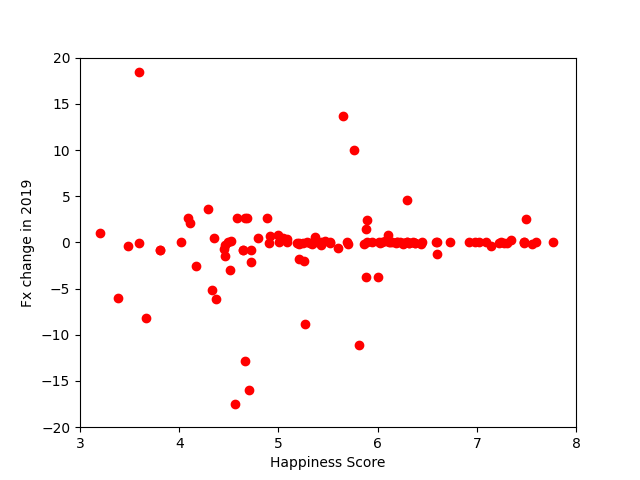
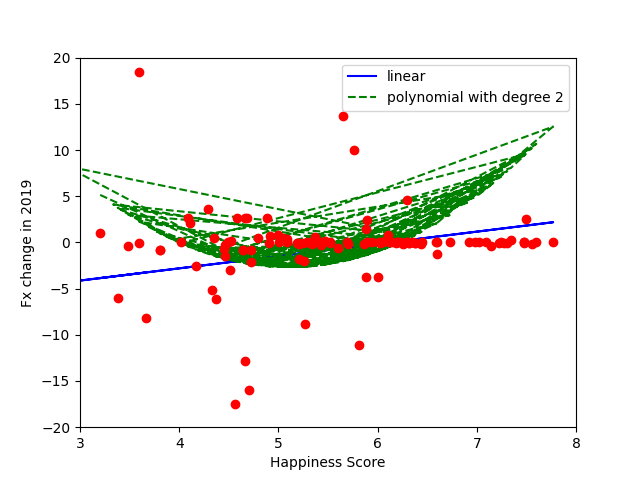
add linear and poly

diff --git a/task_4.py b/task_4.py
@@ -1,10 +1,16 @@
 import os
+from re import L
 import pandas as pd
 import matplotlib.pyplot as plt
 import requests
 import json
+from sklearn.linear_model import LinearRegression
+from sklearn.preprocessing import PolynomialFeatures
+import numpy as np
 from dotenv import load_dotenv
+from scipy.stats import zscore
 load_dotenv()
+
 
 BASE_URL = os.getenv('BASE_URL')
 MY_KEY = os.getenv('MY_KEY')
@@ -47,6 +53,25 @@ def build_fx_change_in_year(start: str, end: str, symbols: list):
 
     return fx_change
 
+def regression_model(data_point, label):
+    label = np.array(label).reshape(-1,1)
+    data_point = np.array(data_point).reshape(len(label),-1)
+        
+    model = LinearRegression()
+    model.fit(data_point, label)
+    return model
+
+def polynomial_preprocess(X):
+    poly = PolynomialFeatures(2)
+    X = np.array(list(X)).reshape(-1,1)
+    X_ = poly.fit_transform(X)
+    return X_
+
+def polynomial_process(X, y):
+    y = np.array(list(y)).reshape(-1,1)
+    X_ = polynomial_preprocess(X)
+    model = regression_model(X_, y)
+    return model
 
 if __name__ == '__main__':
     currency_code = pd.read_csv('data/currency_code.csv')
@@ -57,11 +82,24 @@ if __name__ == '__main__':
     data = preprocess_and_merge_data(fx_change)
     fx_change_year = data['Fx change']
     score = data['Score']
+
+    z_scores = zscore(data[['Fx change', 'Score']])
+    filtered_entries = (np.abs(z_scores) < 1.5).all(axis=1)
+    removed_outlier_data = data[filtered_entries]
+    
+    model_linear = regression_model(removed_outlier_data['Score'], removed_outlier_data['Fx change'])
+    model_polynomial = polynomial_process(removed_outlier_data['Score'], removed_outlier_data['Fx change'])
+
+    plt.plot(score, model_linear.predict(np.array(score).reshape(-1,1)).ravel(), 'b-', label='linear')
+    plt.plot(score, model_polynomial.predict(polynomial_preprocess(score)).ravel(), 'g--', label='polynomial with degree 2')
     plt.plot(score, fx_change_year, 'ro')
     plt.xlabel('Happiness Score')
     plt.ylabel('Fx change in 2019')
     plt.axis([3, 8, -20, 20])
+    plt.legend()
     if not os.path.isdir('imgs/'):
         os.mkdir('imgs/')
     plt.savefig('imgs/task4.png')
     plt.show()
+
+    

diff --git a/program.py b/program.py
@@ -225,7 +225,7 @@ if __name__ == '__main__':
     # TODO: task 3a -> utils.get_currency_code
     # Task 3a
     # data_3a = get_currency_code()
-    # print(data)
+    # print(data_3a)
 
     # Task 3b
     # data_3b = get_score_world_happiness_index()
@@ -243,13 +243,13 @@ if __name__ == '__main__':
     # )
     ##########################################
     # # TODO: task 6: 
-    # asset_portfolio.consolidate_asset()
+    # asset_portfolio.consolidate_asset(is_print=True)
     ##########################################
     # TODO: task 7:
-    asset_portfolio.plot_the_change_in_value(
-        year=2019,
-        currency_code='EUR'
-    )
+    # asset_portfolio.plot_the_change_in_value(
+    #     year=2019,
+    #     currency_code='EUR'
+    # )
     ##########################################
     # TODO: task 8
     # asset_portfolio.prove_historically_FX_rate()
